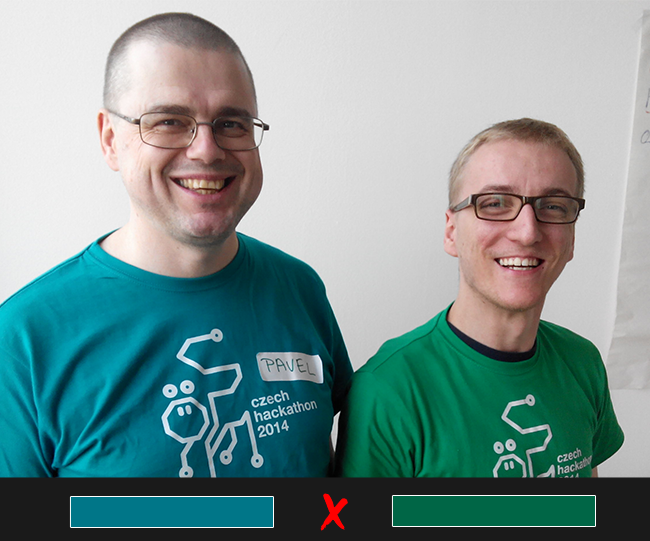
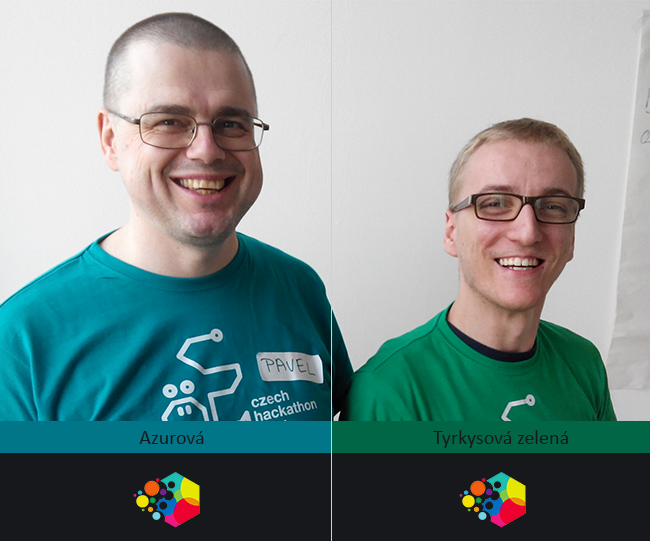
Added new photos Added support for multichoice quiz

Changed region(s): [[0.0, 0.7689, 1.0, 0.976], [0.4923, 0.9168, 0.5538, 0.976]]

diff --git a/server/static/hadej-barvu.html b/server/static/hadej-barvu.html
@@ -42,22 +42,65 @@
 <!-- Start jQuery code -->
 
    <script type="text/javascript" language="javascript">
+   var showPoll = function(type) {
+      if (type === 'name_entry') {
+         $('#mistrajax').css('display', 'inline');
+         $('#poll').css('display', 'none');
+         for (var i = 0; i < 4; i++) {
+            $("#option" + (i+1)).css('display', 'none'); 
+         }
+         $('#contact_body').css('display', 'inline');
+         $("#submit_nevimpoll").css('display', 'none');
+      } else {
+         for (var i = 0; i < 4; i++) {
+            $("#option" + (i+1)).css('display', 'inline'); 
+         }
+         $("#submit_nevimpoll").css('display', 'inline');
+         $('#poll').css('display', 'inline');
+         $('#mistrajax').css('display', 'none');
+         $('#contact_body').css('display', 'none');
+      }
+   }
+
+   var initOptions = function(options) {
+      var optionVal = function(optionId, optionValueId, val) { 
+         $(optionId).unbind();
+         $(optionId).click(function(e) { submitVote(val); });
+         $(optionValueId).text(val);
+      }
+
+      $('#option1').css('display', 'none');
+      $('#option2').css('display', 'none');
+      $('#option3').css('display', 'none');
+      $('#option4').css('display', 'none');
+      for (var i = 0; i < options.length; i++) {
+         var optionId = '#option' + (i+1);
+         var optionValueId = '#option' + (i+1) + 'Value'
+         $(optionId).css('display', 'inline');
+         optionVal(optionId, optionValueId, options[i]);
+      }
+   }   
+
 	var setColor = function(data) {
 			var voteObj = $.parseJSON(data);
 			var styleStr = "rgb(" + voteObj.data.color.red + "," + voteObj.data.color.green + "," + voteObj.data.color.red + ")";
 			$('#inputRed').val(voteObj.data.color.red);
 			$('#inputGreen').val(voteObj.data.color.green);
 			$('#inputBlue').val(voteObj.data.color.blue);
-		  	$('.color-box').css('background-color', styleStr);
-             	  }
+		  	$('.color-box').css('background-color', styleStr); 
+         showPoll(voteObj.type)
+
+         if (voteObj.type === 'name_options') {
+            initOptions(voteObj.data.candidates);
+         }
+   }
 
 	var loadVote = function() {
 		$("#nazevBarvy").val('');
 		$.ajax({url: "http://www.panchrom.io/api/vote", crossDomain: true, success: setColor});
 	};
 
-	var submitVote = function() {
-	var nazevBarvy = $("#nazevBarvy").val();
+	var submitVote = function(nazevBarvy) {
 	if (!nazevBarvy || 0 === nazevBarvy.length) 
 		return;
      var voteData = {
@@ -73,12 +116,19 @@
 		$.post("http://www.panchrom.io/api/vote", JSON.stringify(voteData), setColor);
 	};	
 
+   var submitTextVote = function() {
+      submitVote($("#nazevBarvy").val());
+   }
+
+   var submitNevim = function() {
+      loadVote();
+      $("p").removeClass("warning");
+   }
+
 	$(document).ready(function() {
 		loadVote();
-	      	$("#submit_nevim").click(function(event) {
-        	  loadVote();
-              $( "p" ).removeClass( "warning" );
-	   	});
+	      	$("#submit_nevim").click(submitNevim);
+	      	$("#submit_nevimpoll").click(submitNevim);
 		$("#submit_dalsi").click(function(event) {
         	   
       if( !$("#nazevBarvy").val() ) {
@@ -86,8 +136,8 @@
       } else {
         $( "p" ).removeClass( "warning" ); 
       }    
-      submitVote();
-      
+      submitTextVote();
+ 
 	   	});
 	});
 </script>
@@ -136,43 +186,39 @@
       <div class="basic-grey" id="mistrajax">
       
         <div id="contact_body">
-          <label><input id="nazevBarvy" type="text" name="name" placeholder="Název barvy" required="true"><p style="color: red; font-weight: normal; visibility: hidden; margin-top: -21px;">Bez barvy to nepůjde!</p></label>
-          <input type="button" class="button-nevim" value="Nevím" id="submit_nevim">
+          <label><input id="nazevBarvy" type="text" name="name" placeholder="Název barvy" required="true"><p style="color: red; font-weight: normal; visibility: hidden; margin-top: -21px;">Bez barvy to nepůjde!</p></label>  
+    <input type="button" class="button-nevim" value="Nevím" id="submit_nevim">
           <input type="button" class="button" value="Další" id="submit_dalsi">
 	  <input id="inputRed" type="hidden" name="inputRed" hidden="true" readonly="true">
 	  <input id="inputGreen" type="hidden" name="inputGreen" hidden="true" readonly="true">	
           <input id="inputBlue" type="hidden" name="inputBlue" hidden="true" readonly="true">
         </div>
     </div> 
-    <!--<div class="poll">
+    <div class="poll">
      <ol class="choices">
         
-            <li class="shiny-box choice clearfix active" title="[Shortcut : 1]" data-choice-id="0">
-                <span class="index">1.</span>
-                <span class="val ">červená</span>
+            <li class="shiny-box choice clearfix active" title="[Shortcut : 1]" data-choice-id="0" id="option1">
+                <span class="val" id="option1Value"></span>
                 <span class="marking-icon"></span>
             </li>
         
-            <li class="shiny-box choice clearfix" title="[Shortcut : 2]" data-choice-id="1">
-                <span class="index">2.</span>
-                <span class="val ">rudá</span>
+            <li class="shiny-box choice clearfix" title="[Shortcut : 2]" data-choice-id="1" id="option3">
+                <span class="val" id="option2Value"></span>
                 <span class="marking-icon"></span>
             </li>
         
-            <li class="shiny-box choice clearfix" title="[Shortcut : 3]" data-choice-id="2">
-                <span class="index">3.</span>
-                <span class="val ">vínová</span>
+            <li class="shiny-box choice clearfix" title="[Shortcut : 3]" data-choice-id="2" id="option2">
+                <span class="val" id="option3Value"></span>
                 <span class="marking-icon"></span>
             </li>
         
-            <li class="shiny-box choice clearfix" title="[Shortcut : 4]" data-choice-id="3">
-                <span class="index">4.</span>
-                <span class="val ">purpurová</span>
+            <li class="shiny-box choice clearfix" title="[Shortcut : 4]" data-choice-id="3" id="option4">
+                <span class="val" id="option4Value"></span>
                 <span class="marking-icon"></span>
             </li>
-        
     </ol>
-    </div> -->
+            <input type="button" class="button-nevim" value="Nevím" id="submit_nevimpoll">    
+    </div> 
     
     
 		</div>

diff --git a/server/model.py b/server/model.py
@@ -29,6 +29,32 @@ from (select votes.name as name,
 order by my_distance, doubt
 limit 8;
 """ 
+generate_options_sql = """
+select candidates.name as name,
+       candidates.mean_red as mean_red,
+       candidates.mean_green as mean_green,
+       candidates.mean_blue as mean_blue
+from (select mean_euclidean_distances.name as name,
+       round(mean_values.red) as mean_red,
+       round(mean_values.green) as mean_green,
+       round(mean_values.blue) as mean_blue,
+       mean_euclidean_distances.my_euclidean_distance as distance
+from (select votes.name as name,
+             avg(sqrt(power(votes.red - mean_values.red, 2) + power(votes.green - mean_values.green, 2) + power(votes.blue - mean_values.blue, 2))) as mean_euclidean_distance,
+             max(sqrt(power({0} - mean_values.red, 2) + power({1} - mean_values.green, 2) + power({2} - mean_values.blue, 2))) as my_euclidean_distance       
+      from (select name as name, 
+              avg(red) as red, 
+              avg(green) as green, 
+              avg(blue) as blue 
+             from votes group by name) mean_values inner join votes votes on mean_values.name = votes.name
+       group by votes.name) mean_euclidean_distances inner join (select name as name, 
+                           avg(red) as red, 
+                           avg(green) as green, 
+                           avg(blue) as blue 
+                         from votes group by name) mean_values on mean_euclidean_distances.name = mean_values.name) candidates
+where candidates.distance between {3} and {4}
+offset random() limit  4;
+"""
 
 class Vote(panchromious.db.Model):
    __tablename__ = 'votes'
@@ -58,10 +84,10 @@ def get_color(red, green, blue):
    jsonObj = []
    result = db.engine.execute(get_color_sql.format(red, green, blue))
    for row in result:
-      jsonObj.append(get_json_obj_from_row(row))
+      jsonObj.append(get_color_json_obj_from_row(row))
    return jsonObj
 
-def get_json_obj_from_row(row):
+def get_color_json_obj_from_row(row):
    jsonObj = {}
    jsonObj['name'] = row['name']
    jsonObj['distance'] = float(row['my_distance'])
@@ -73,6 +99,12 @@ def get_json_obj_from_row(row):
    jsonObj['color']['blue'] = int(row['mean_blue'])
 
    return jsonObj
-   
+  
+def get_similar_colors(red, green, blue):
+   candidates = []
+   result = db.engine.execute(generate_options_sql.format(red, green, blue, 0, 200))
+   for row in result:
+      candidates.append(row['name'])
+   return candidates
 
 

diff --git a/server/utils.py b/server/utils.py
@@ -18,7 +18,13 @@ def generate_response(status, response):
    return flask.make_response((json.dumps(response), status, {'content_type': 'application/json', 'charset': 'utf-8', 'Access-Control-Allow-Origin': '*'}))
 
 def generate_vote():
-   return generate_text_vote()
+   voteType = random.randint(0, 100)
+
+   # Asymmetric probability 
+   if voteType in range(0, 70):
+      return generate_options_vote()
+   else:
+      return generate_text_vote();
 
 def generate_text_vote():
    red, green, blue = generate_color()
@@ -34,6 +40,23 @@ def generate_text_vote():
    vote['data']['color']['blue'] = blue
    
    return vote
+
+def generate_options_vote():
+   red, green, blue = generate_color()
+   candidates = model.get_similar_colors(red, green, blue)
+   
+   vote = {}
+   vote['type'] = 'name_options'
+   vote['data'] = {}
+
+   vote['data']['color'] = {}
+   vote['data']['color']['red'] = red
+   vote['data']['color']['green'] = green
+   vote['data']['color']['blue'] = blue 
+  
+   vote['data']['candidates'] = candidates
+
+   return vote 
 
 def generate_color():
    red = random.randint(0, 255)
